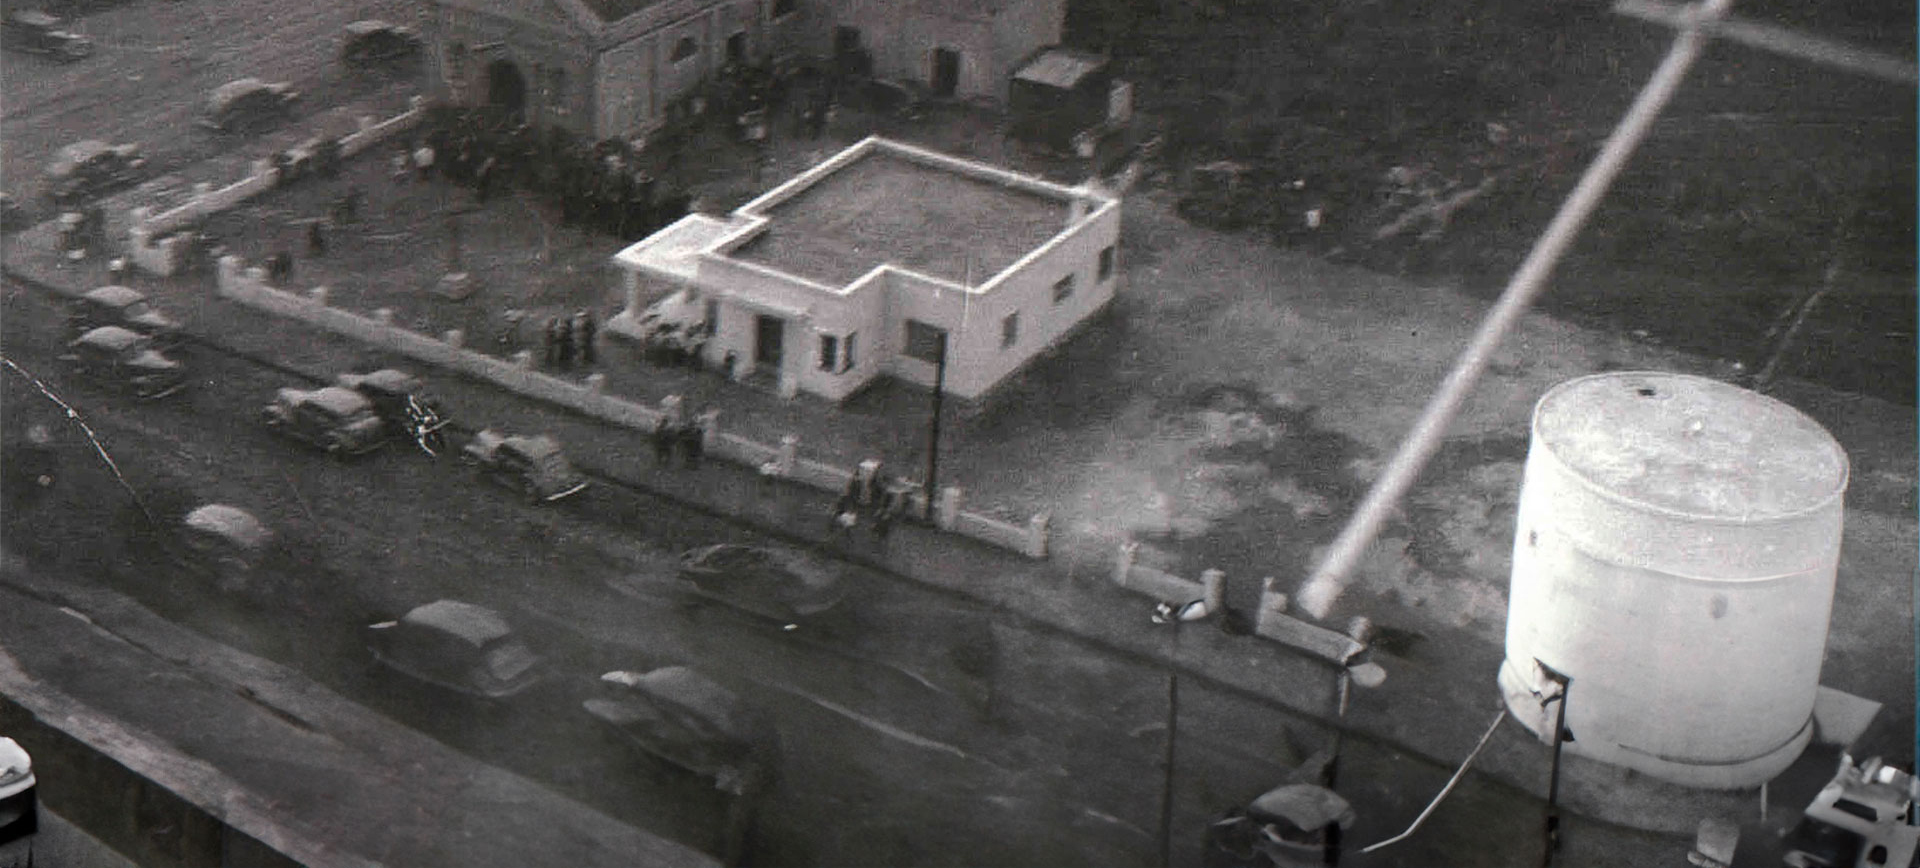
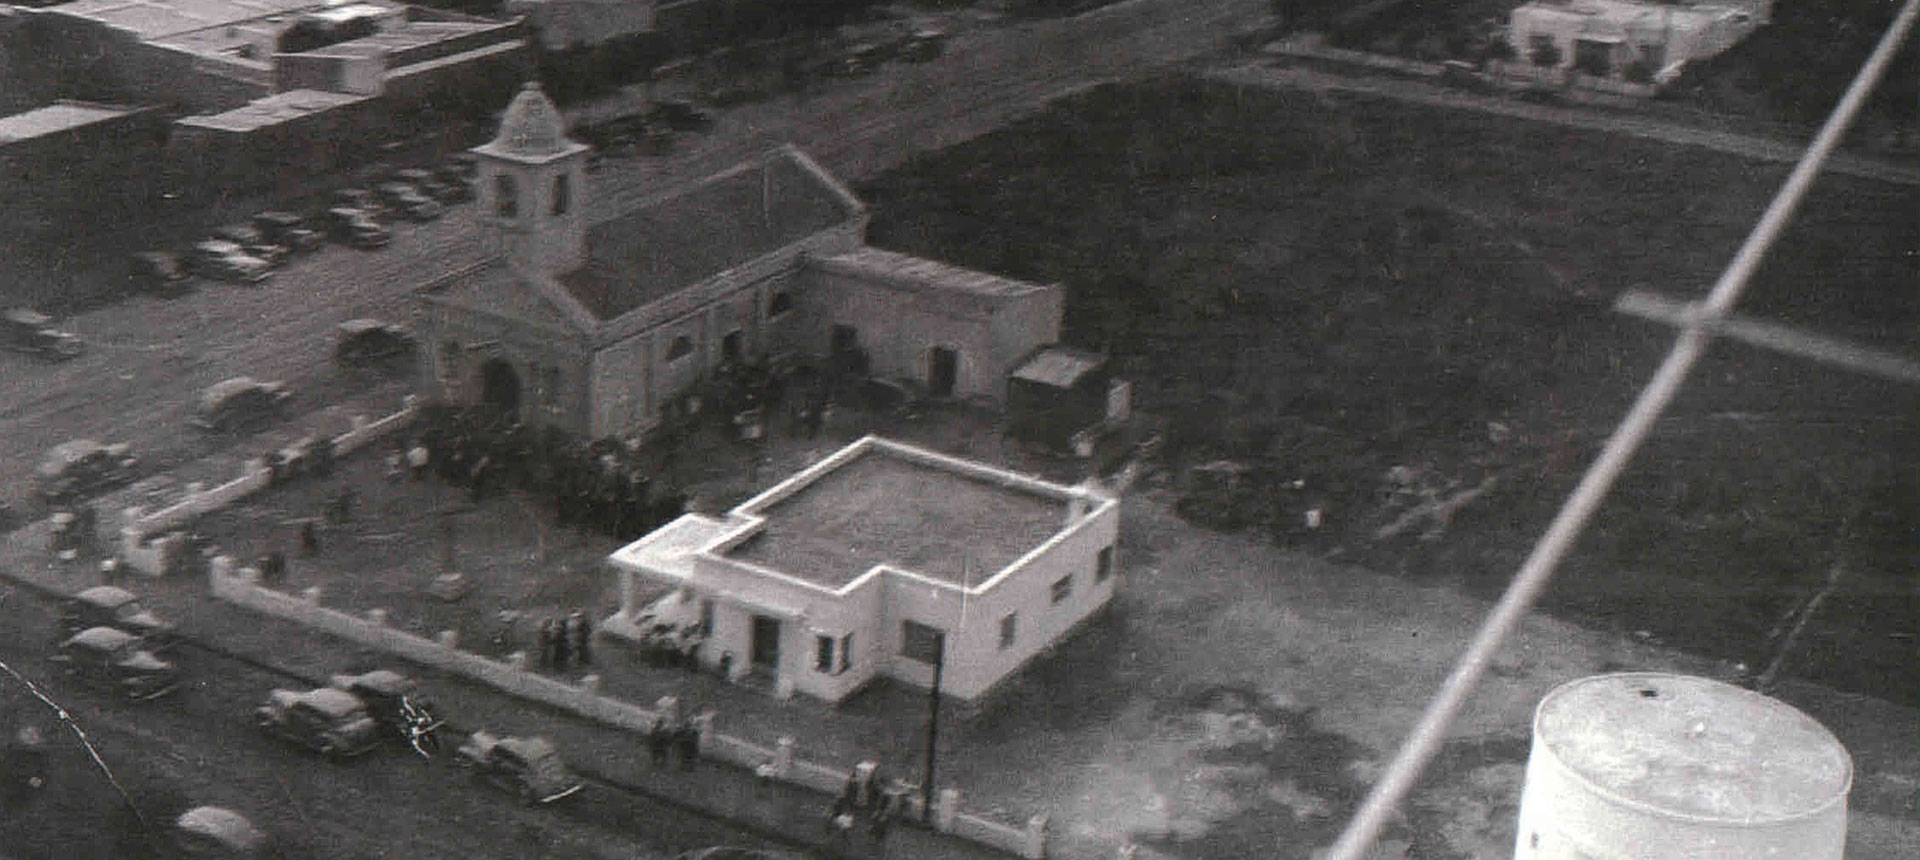
portada fix

diff --git a/src/Views/HistoriaView/index.jsx b/src/Views/HistoriaView/index.jsx
@@ -13,8 +13,8 @@ const HistoriaView = () => {
             title='Historia'
             text='Remontamos a los orígenes del edificio de nuestra Casa de la Cultura hasta la creación del Museo de General Deheza.'
             img={fondoPortada}
-            bgSize='contain'
-            bgPos='top'
+            bgSize="contain"
+            bgPos="top"
          />
          <Container alignSelf='center'>
             <Introduccion />
